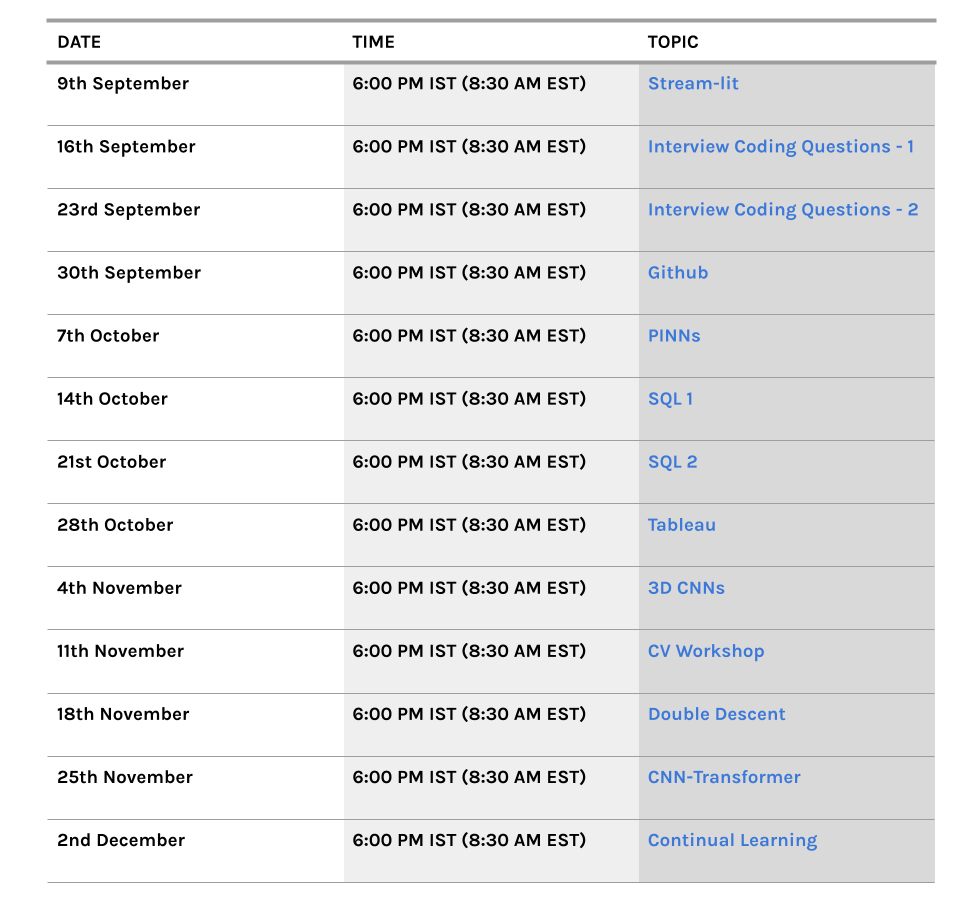
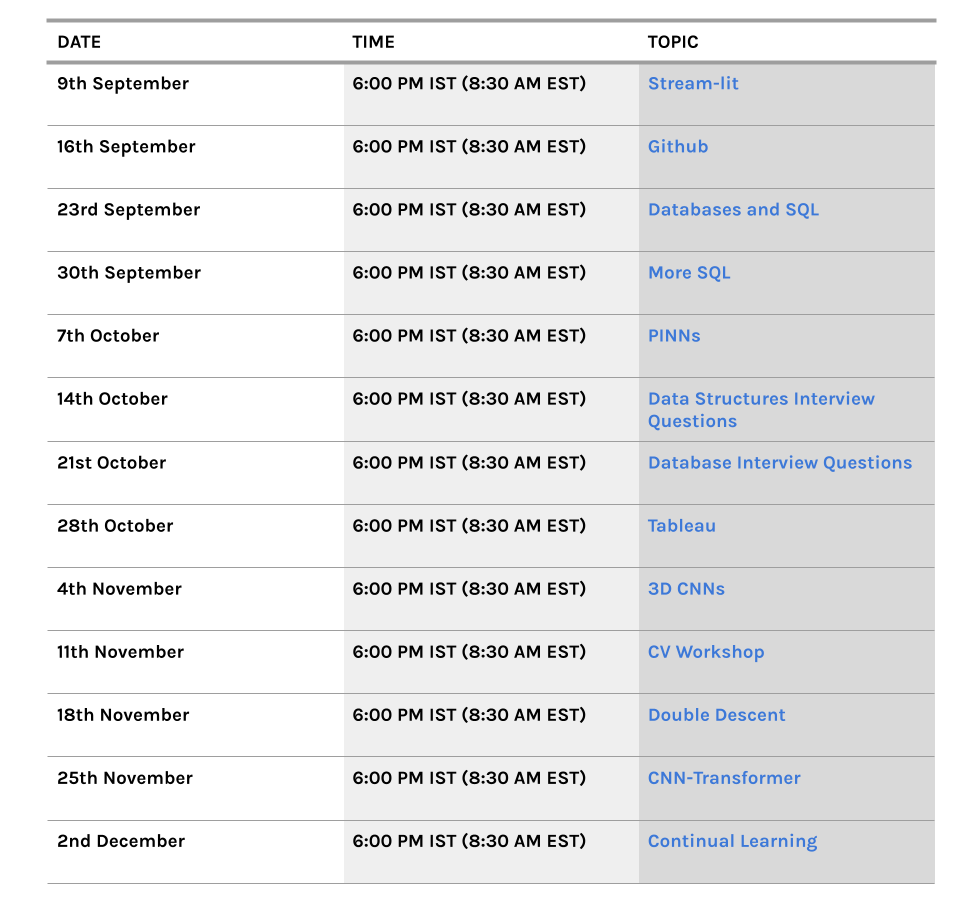
Uncourse Schedule Update

diff --git a/_pages/uncourse.md b/_pages/uncourse.md
@@ -49,12 +49,12 @@ Here is the current schedule for all our workshops.
 
 <map name="workmap">
   <area shape="rect" class="area" coords="638,64,934,124" alt="Stream-lit" title="Stream-lit" data-toggle="modal" data-target="#Stream-litModal">
-  <area shape="rect" class="area" coords="638,124,934,186" alt="Interview Coding Questions" title="Interview Coding Questions - 1" data-toggle="modal" data-target="#InterviewCodingQuestions_1Modal">
-  <area shape="rect" class="area" coords="638,189,934,250" alt="Interview Coding Questions" title="Interview Coding Questions - 2" data-toggle="modal" data-target="#InterviewCodingQuestions_2Modal">
-  <area shape="rect" class="area" coords="638,250,934,313" alt="Github" title="Github" data-toggle="modal" data-target="#GithubModal">
+  <area shape="rect" class="area" coords="638,124,934,186" alt="Github" title="Github" data-toggle="modal" data-target="#GithubModal">
+  <area shape="rect" class="area" coords="638,189,934,250" alt="SQL1" title="Database and SQL" data-toggle="modal" data-target="#Sql1Modal">
+  <area shape="rect" class="area" coords="638,250,934,313" alt="SQL2" title="More SQL" data-toggle="modal" data-target="#Sql2Modal">
   <area shape="rect" class="area" coords="638,313,934,375" alt="PINNs" title="PINNs" data-toggle="modal" data-target="#PINNsModal">
-  <area shape="rect" class="area" coords="638,375,934,439" alt="SQL1" title="SQL1" data-toggle="modal" data-target="#Sql1Modal">
-  <area shape="rect" class="area" coords="638,439,934,503" alt="SQL2" title="SQL2" data-toggle="modal" data-target="#Sql2Modal">
+  <area shape="rect" class="area" coords="638,375,934,439" alt="DSInterview" title="Data Structure Interview Questions" data-toggle="modal" data-target="#DSInterviewModal">
+  <area shape="rect" class="area" coords="638,439,934,503" alt="DBInterview" title="Data Base Interview Questions" data-toggle="modal" data-target="#DBInterviewModal">
   <area shape="rect" class="area" coords="638,503,934,567" alt="Tableau" title="Tableau" data-toggle="modal" data-target="#TableauModal">
   <area shape="rect" class="area" coords="638,567,934,631" alt="3DCNNs" title="3D CNNs" data-toggle="modal" data-target="#ThreeDCNNsModal">
   <area shape="rect" class="area" coords="638,631,934,692" alt="CV Workshop" title="CV Workshop" data-toggle="modal" data-target="#CVWorkshopModal">
@@ -76,8 +76,8 @@ Here is the current schedule for all our workshops.
       </div>
       <div class="modal-body">
         <p>We introduce you to Stream-lit, a quick open-source python framework for building web apps for your data science / ML projects.</p>
-        <center><!--<h6>Instructor: Dr. Rahul Dave</h6>
-        <img src="/assets/images/people/RahulDave.jpeg" alt="Rahul" style="height:200px;margin-right:15px">--><br><br>
+        <center><h6>Instructor: Dr. Rahul Dave</h6>
+        <img src="/assets/images/people/RahulDave.jpeg" alt="Rahul" style="height:200px;margin-right:15px"><br><br>
         <h6>Timings</h6>
         <p>6:00 - 8:00 PM IST <br>
         (8:30 - 10:30 AM EST)</p> <br>
@@ -92,11 +92,11 @@ Here is the current schedule for all our workshops.
 </script>
 
 <div class="container">
-<div class="modal fade modal-margin" id="InterviewCodingQuestions_1Modal" tabindex="-1" role="dialog" aria-labelledby="exampleModalLabel" aria-hidden="true">
+<div class="modal fade modal-margin" id="DSInterviewModal" tabindex="-1" role="dialog" aria-labelledby="exampleModalLabel" aria-hidden="true">
   <div class="modal-dialog ">
     <div class="modal-content" >
       <div class="modal-header">
-        <h5 class="modal-title" id="exampleModalLabel">Interview Coding Questions 1</h5>
+        <h5 class="modal-title" id="exampleModalLabel">Data Structures Interview Questions</h5>
         <button type="button" class="close" data-dismiss="modal" aria-label="Close">
           <span aria-hidden="true">X</span>
         </button>
@@ -115,23 +115,23 @@ Here is the current schedule for all our workshops.
 </div>
 </div>
 <script>
-     $('#InterviewCodingQuestions_1Modal').appendTo('body');
+     $('#DSInterviewModal').appendTo('body');
 </script>
 
 <div class="container">
-<div class="modal fade modal-margin" id="InterviewCodingQuestions_2Modal" tabindex="-1" role="dialog" aria-labelledby="exampleModalLabel" aria-hidden="true">
+<div class="modal fade modal-margin" id="DBInterviewModal" tabindex="-1" role="dialog" aria-labelledby="exampleModalLabel" aria-hidden="true">
   <div class="modal-dialog ">
     <div class="modal-content" >
       <div class="modal-header">
-        <h5 class="modal-title" id="exampleModalLabel">Interview Coding Questions 2</h5>
+        <h5 class="modal-title" id="exampleModalLabel">Database Interview Questions </h5>
         <button type="button" class="close" data-dismiss="modal" aria-label="Close">
           <span aria-hidden="true">X</span>
         </button>
       </div>
       <div class="modal-body">
         <p>This workshop dives further into the common Interview Coding Questions , building upon the previous session.</p>
-        <center><!--<h6>Instructor: Cristobal Donoso-Oliva</h6>
-        <img src="/assets/images/people/CristobalDonoso.jpg" alt="Cristobal" style="height:200px;margin-right:15px;">--><br><br>
+        <center><h6>Instructor: Dr. Rahul Dave</h6>
+        <img src="/assets/images/people/RahulDave.jpeg" alt="Rahul" style="height:200px;margin-right:15px;"><br><br>
         <h6>Timings</h6>
         <p>6:00 - 8:00 PM IST <br>
         (8:30 - 10:30 AM EST)</p> <br>
@@ -142,7 +142,7 @@ Here is the current schedule for all our workshops.
 </div>
 </div>
 <script>
-     $('#InterviewCodingQuestions_2Modal').appendTo('body');
+     $('#DBInterviewModal').appendTo('body');
 </script>
 
 <div class="container">
